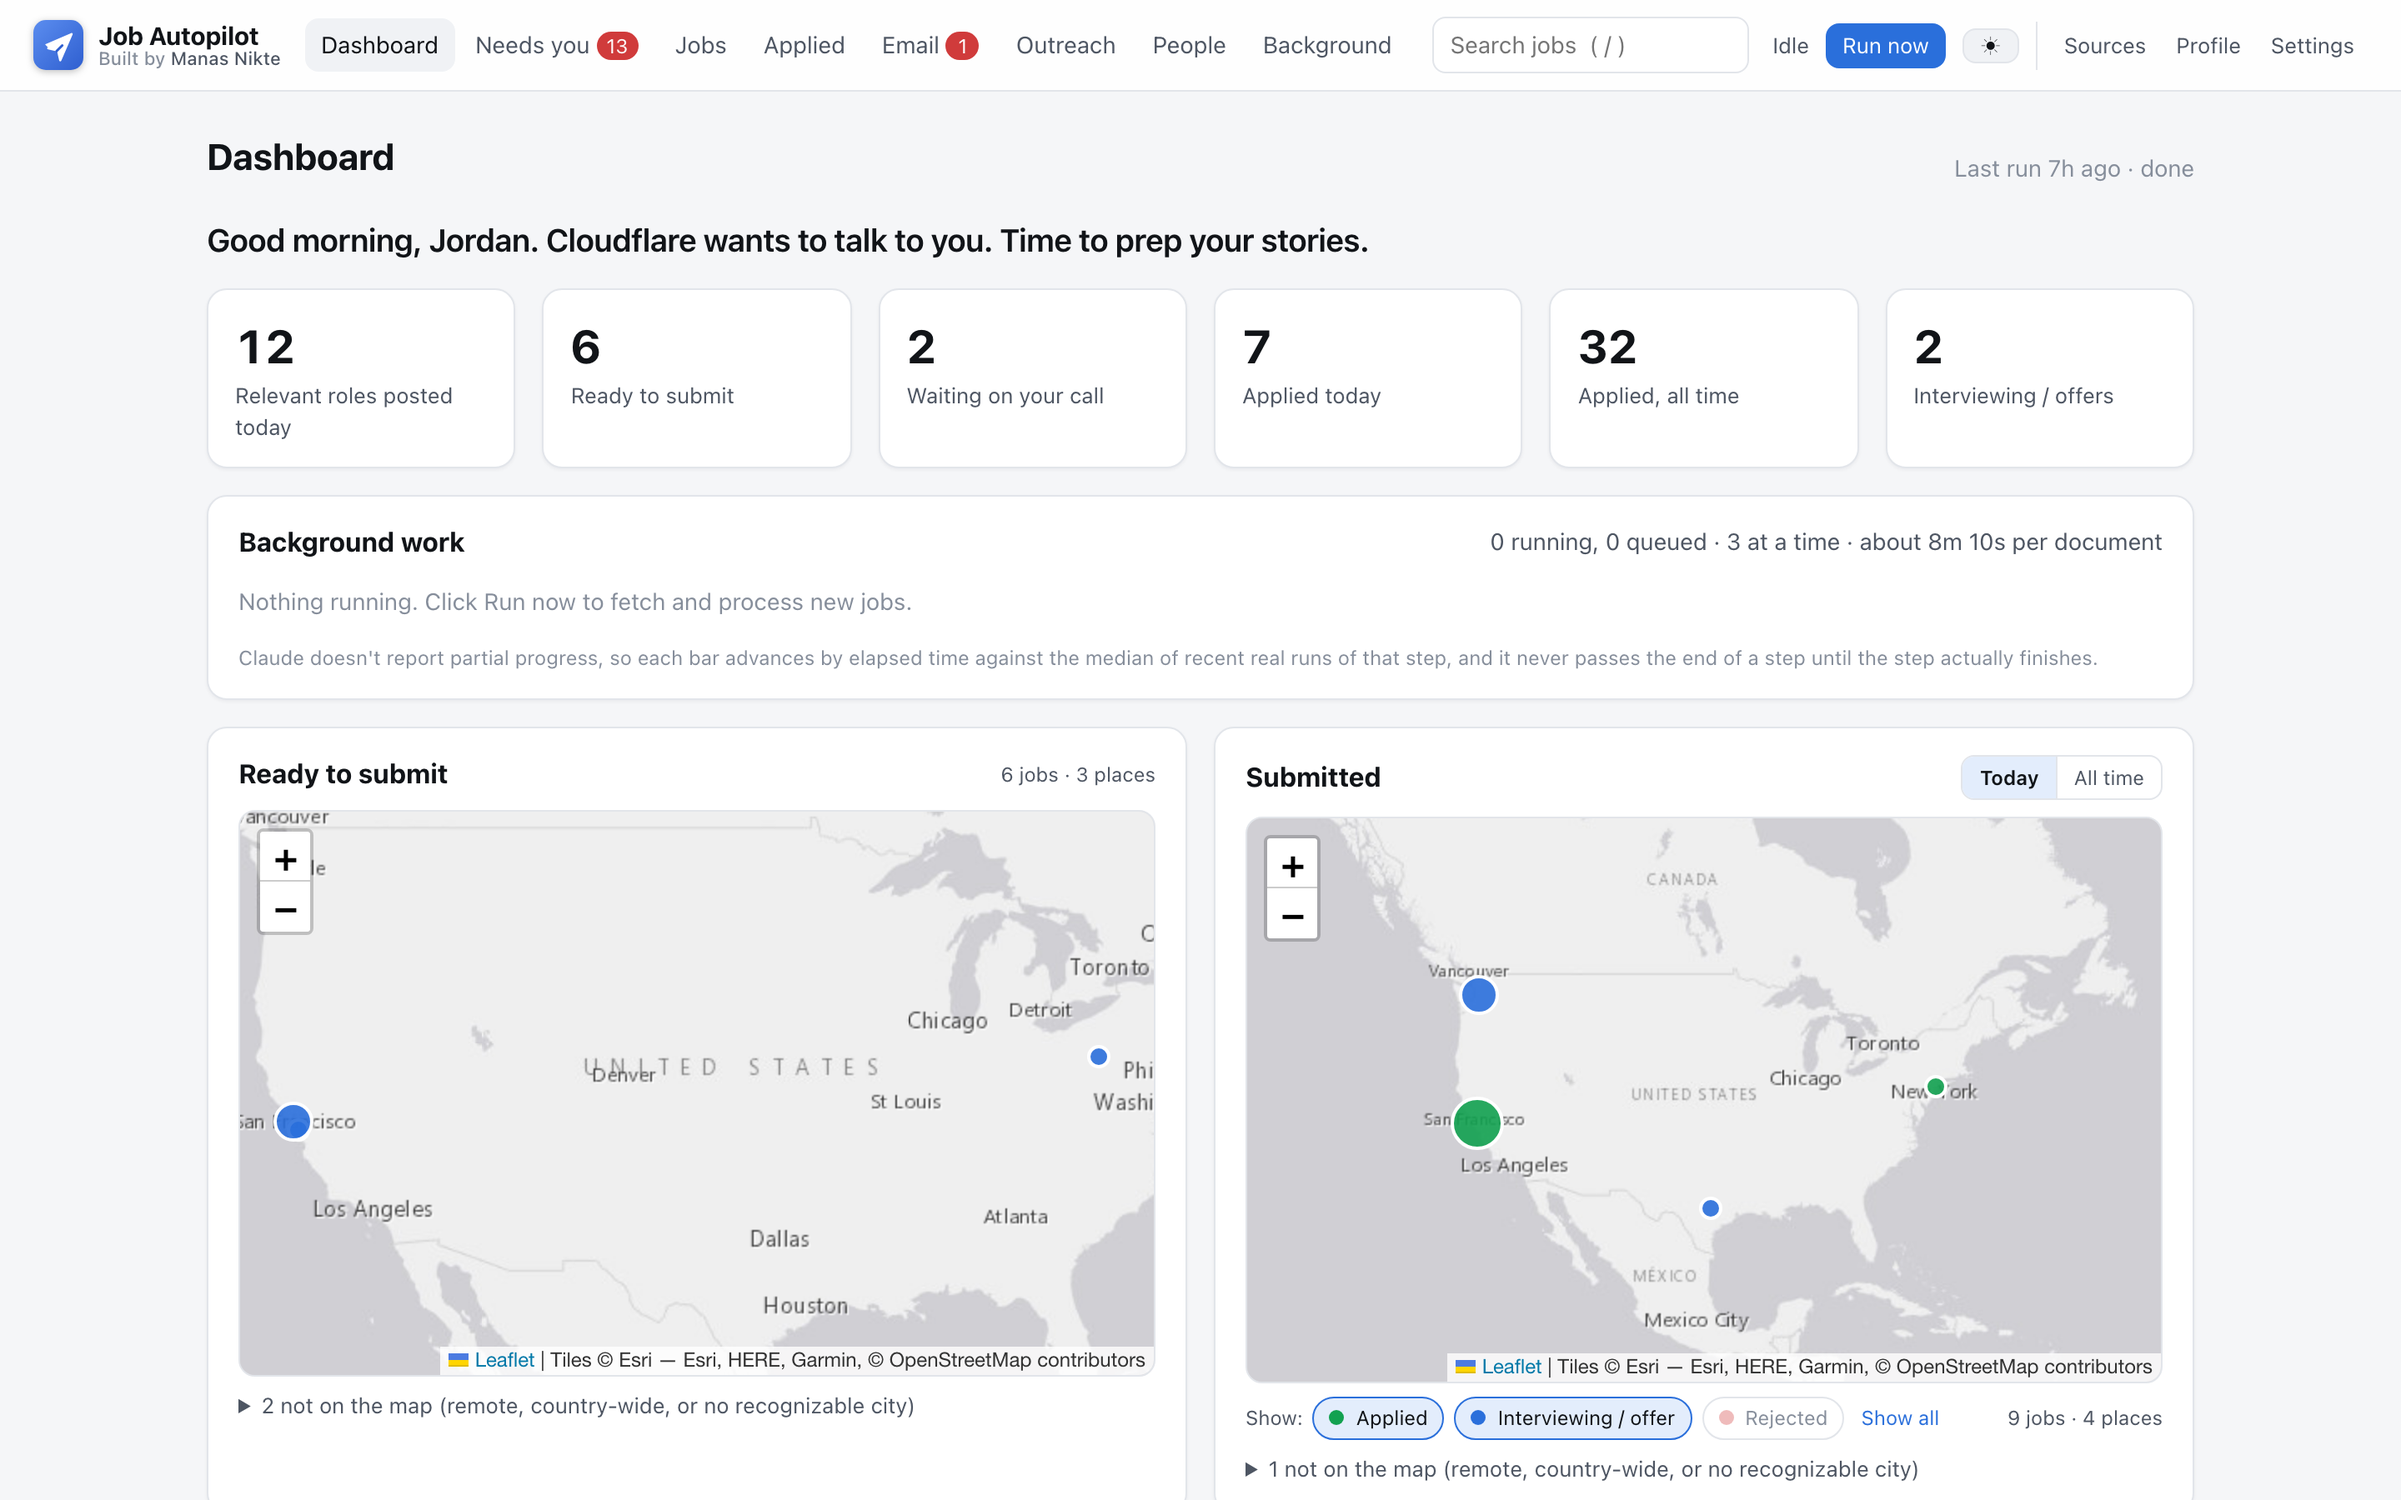
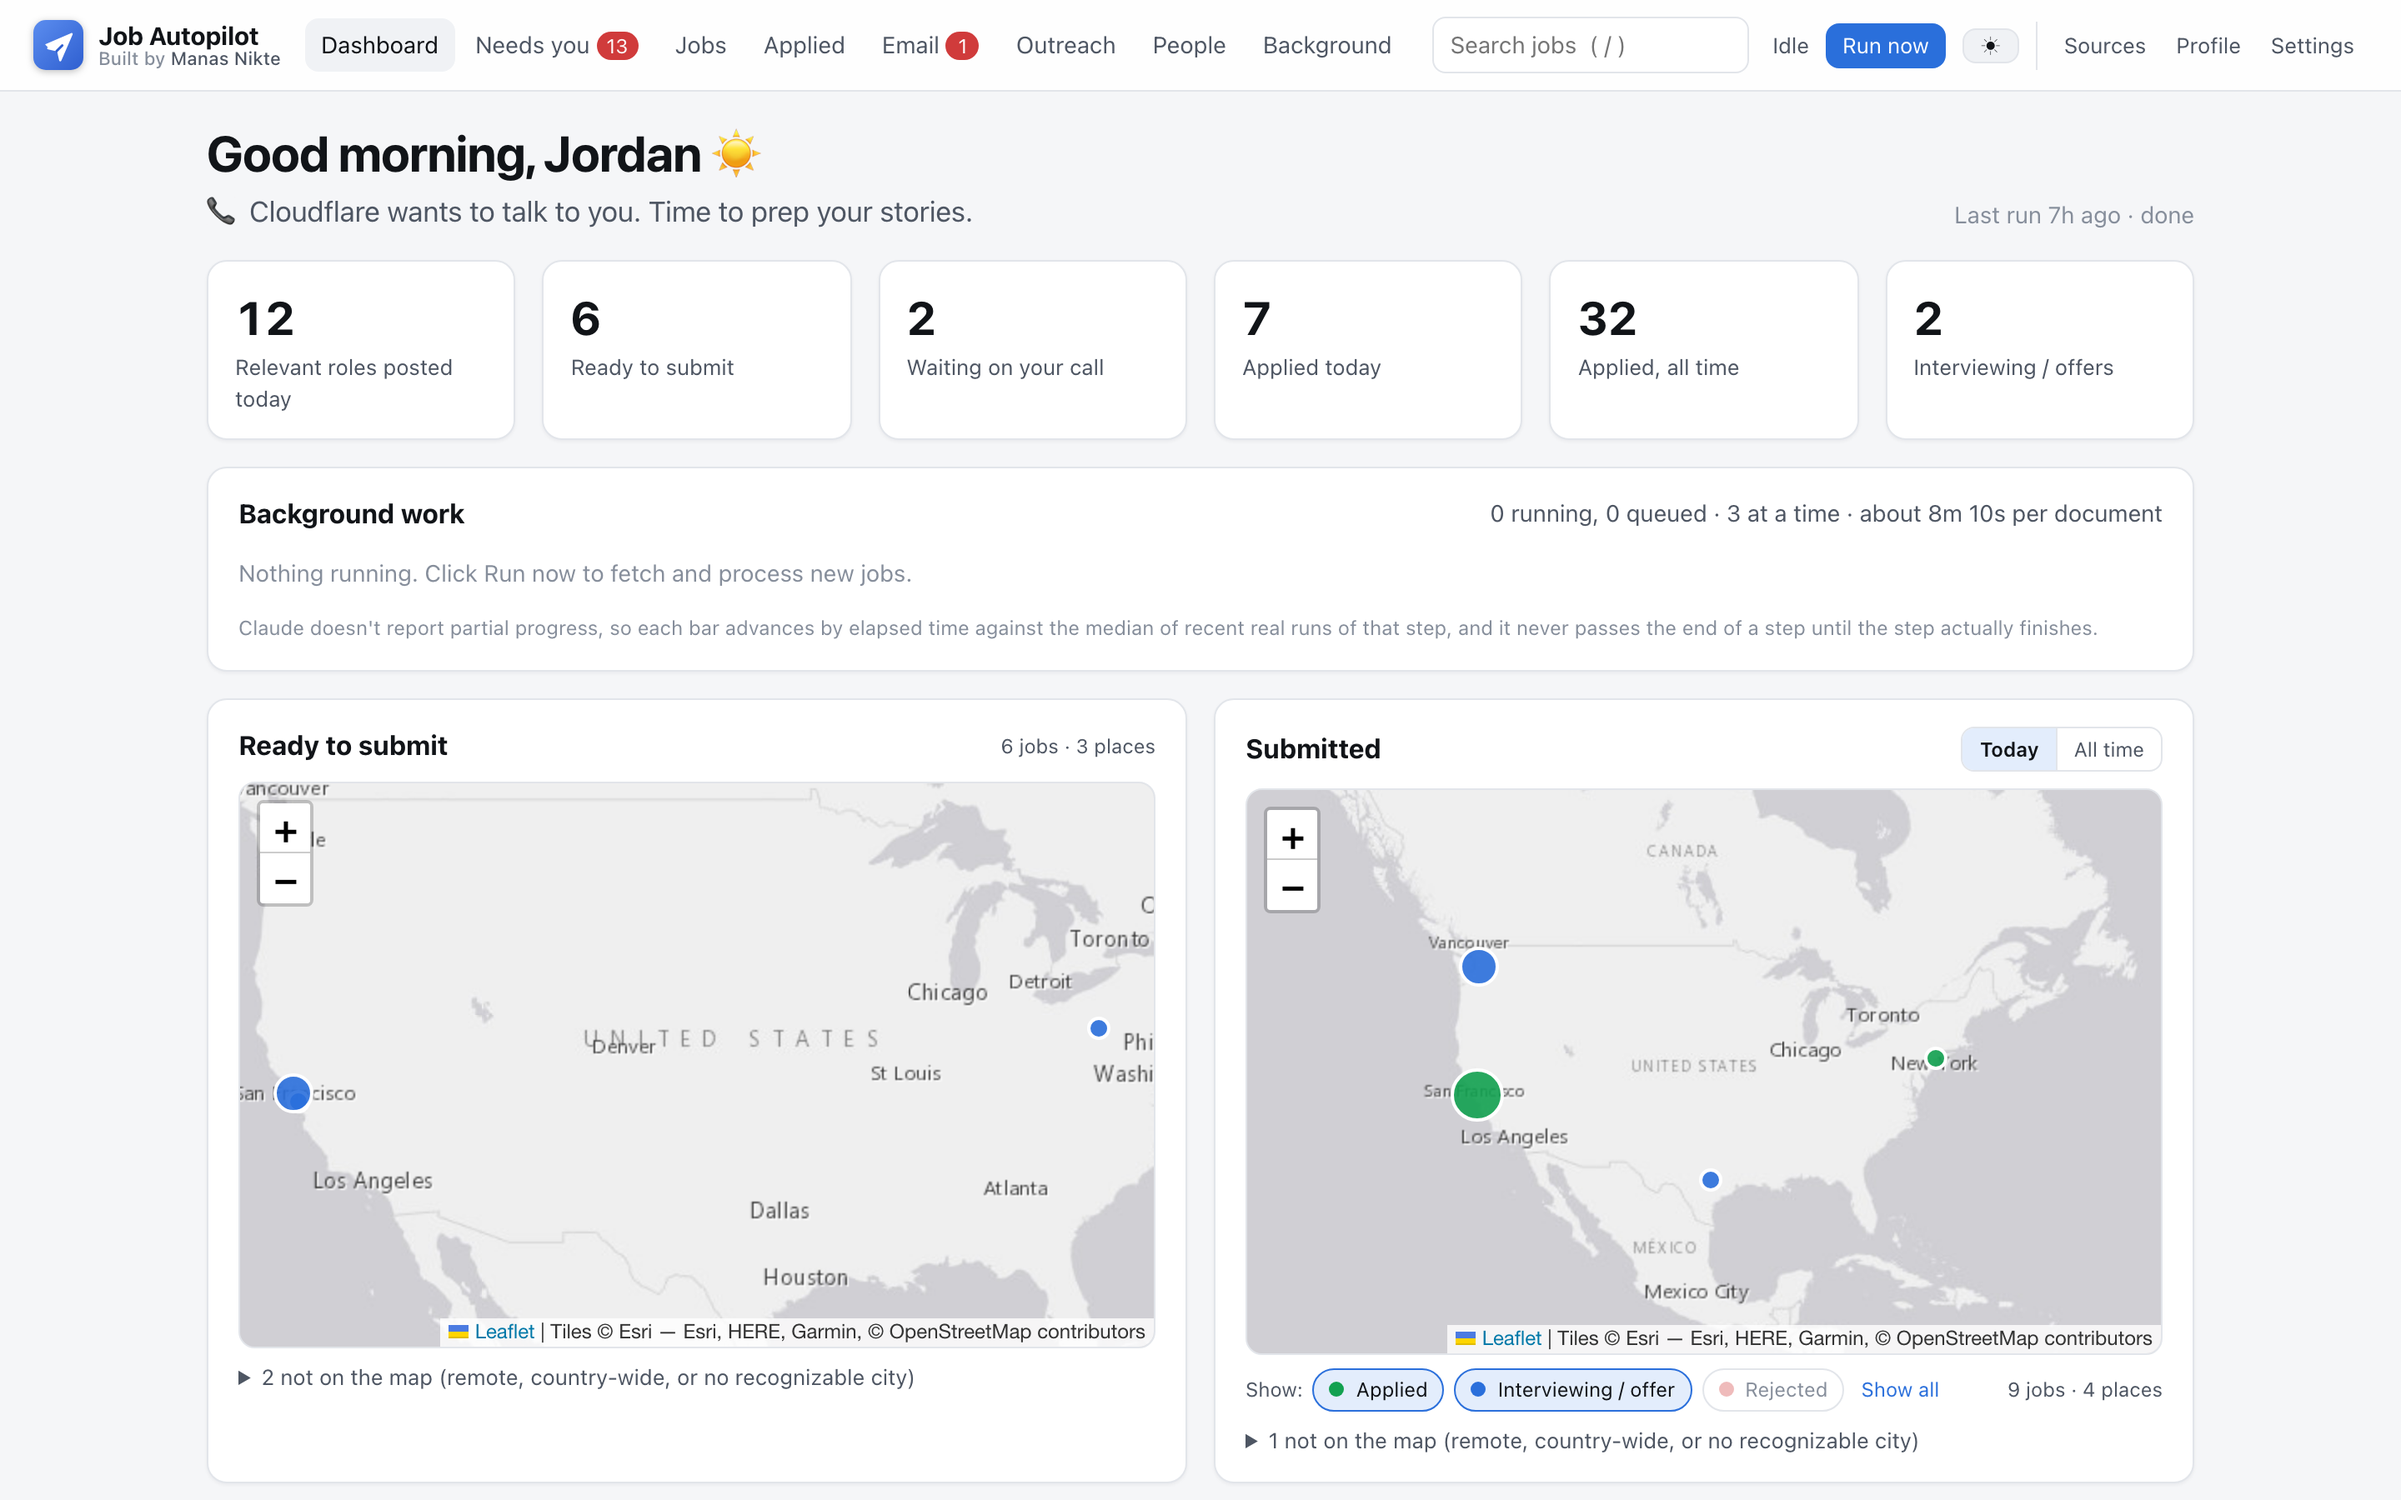
Setup guide asks the user's name first; README notes it; dashboard screenshots show the two-line greeting

diff --git a/CLAUDE_SETUP.md b/CLAUDE_SETUP.md
@@ -59,6 +59,13 @@ before moving on. Keep the user informed in plain language.
   `.venv\Scripts\python.exe` on Windows. Calling it directly avoids PowerShell's activation-script policy.
 - If a step fails, read the error, fix the cause, and retry. Only ask the user when the fix needs them.
 
+### Step 0: Greet the user and ask their name
+
+Before anything else, introduce yourself in one line and ask: **"What should I call you?"** Use their first
+name from then on. The dashboard greets them by this name every day ("Good morning, Priya ☀"), so save it in
+Step 7 (`preferred_name` in `profile/applicant.json`). If they'd rather not say, skip it; the dashboard will
+ask on its first launch, and it can be changed anytime in **Settings → Your profile and prompt → Your name**.
+
 ### Step 1: Detect the platform
 
 Find out the OS and package manager, and choose the matching path in every later step:
@@ -161,9 +168,8 @@ the check in Step 8, or copy the files yourself. Then fill them in together with
    - Search for `[` to find the remaining placeholders. Use only facts the user gives you. Where a number is
      unknown, write `PENDING`; never invent one.
    - Keep every section heading. The app refers to them (Section I, I-B, III-0, IX-V, XI, XV).
-2. **`profile/applicant.json`**: set `"preferred_name"` to the name the user wants to be greeted by on the
-   dashboard (ask them; the dashboard also asks on first launch, and it can be changed on the Settings page). Then the remaining fields:
-   name, email, phone, location, links, school, start date, and the fixed form
+2. **`profile/applicant.json`**: set `"preferred_name"` to the name from Step 0 (the dashboard greeting uses it),
+   then fill the remaining fields: name, email, phone, location, links, school, start date, and the fixed form
    answers (work authorization, sponsorship, EEO). For EEO questions, use exactly what the user chooses,
    including "Decline to self identify."
 3. **Work authorization:** if the user does **not** need visa sponsorship, set `"require_h1b_signal": false` in
@@ -335,9 +341,10 @@ Tell the user:
 
 ### Step 12: Finish
 
-Give the user a short summary:
+Give the user a short summary, addressed to them by name:
 
-- The dashboard address: http://127.0.0.1:5055
+- The dashboard address: http://127.0.0.1:5055. It greets them by name, with a line about their progress
+  that changes with the time of day.
 - When the next scheduled run is (shown on the Settings page)
 - How runs start on their OS, and whether wake-from-sleep was set up
 - Anything left for them to do: the extension, the USCIS import, and any `PENDING` facts in their prompt

diff --git a/README.md b/README.md
@@ -213,7 +213,9 @@ for this role.
 > claude "Set up Job Autopilot on this computer. Read https://raw.githubusercontent.com/ManasNikte/job-autopilot/main/CLAUDE_SETUP.md and follow the 'Instructions for Claude Code' section step by step."
 > ```
 >
-> Details: [CLAUDE_SETUP.md](CLAUDE_SETUP.md). The manual steps below are the macOS path.
+> Claude starts by asking your name (your dashboard greets you with it), then installs everything, interviews
+> you to fill in your profile, and checks that it all works. Details: [CLAUDE_SETUP.md](CLAUDE_SETUP.md). The
+> manual steps below are the macOS path.
 
 Requires Python 3.11+ and Google Chrome for the extension. Built on macOS; Windows and Linux are supported too (they use the dashboard's built-in scheduler — see [CLAUDE_SETUP.md](CLAUDE_SETUP.md)).
 
